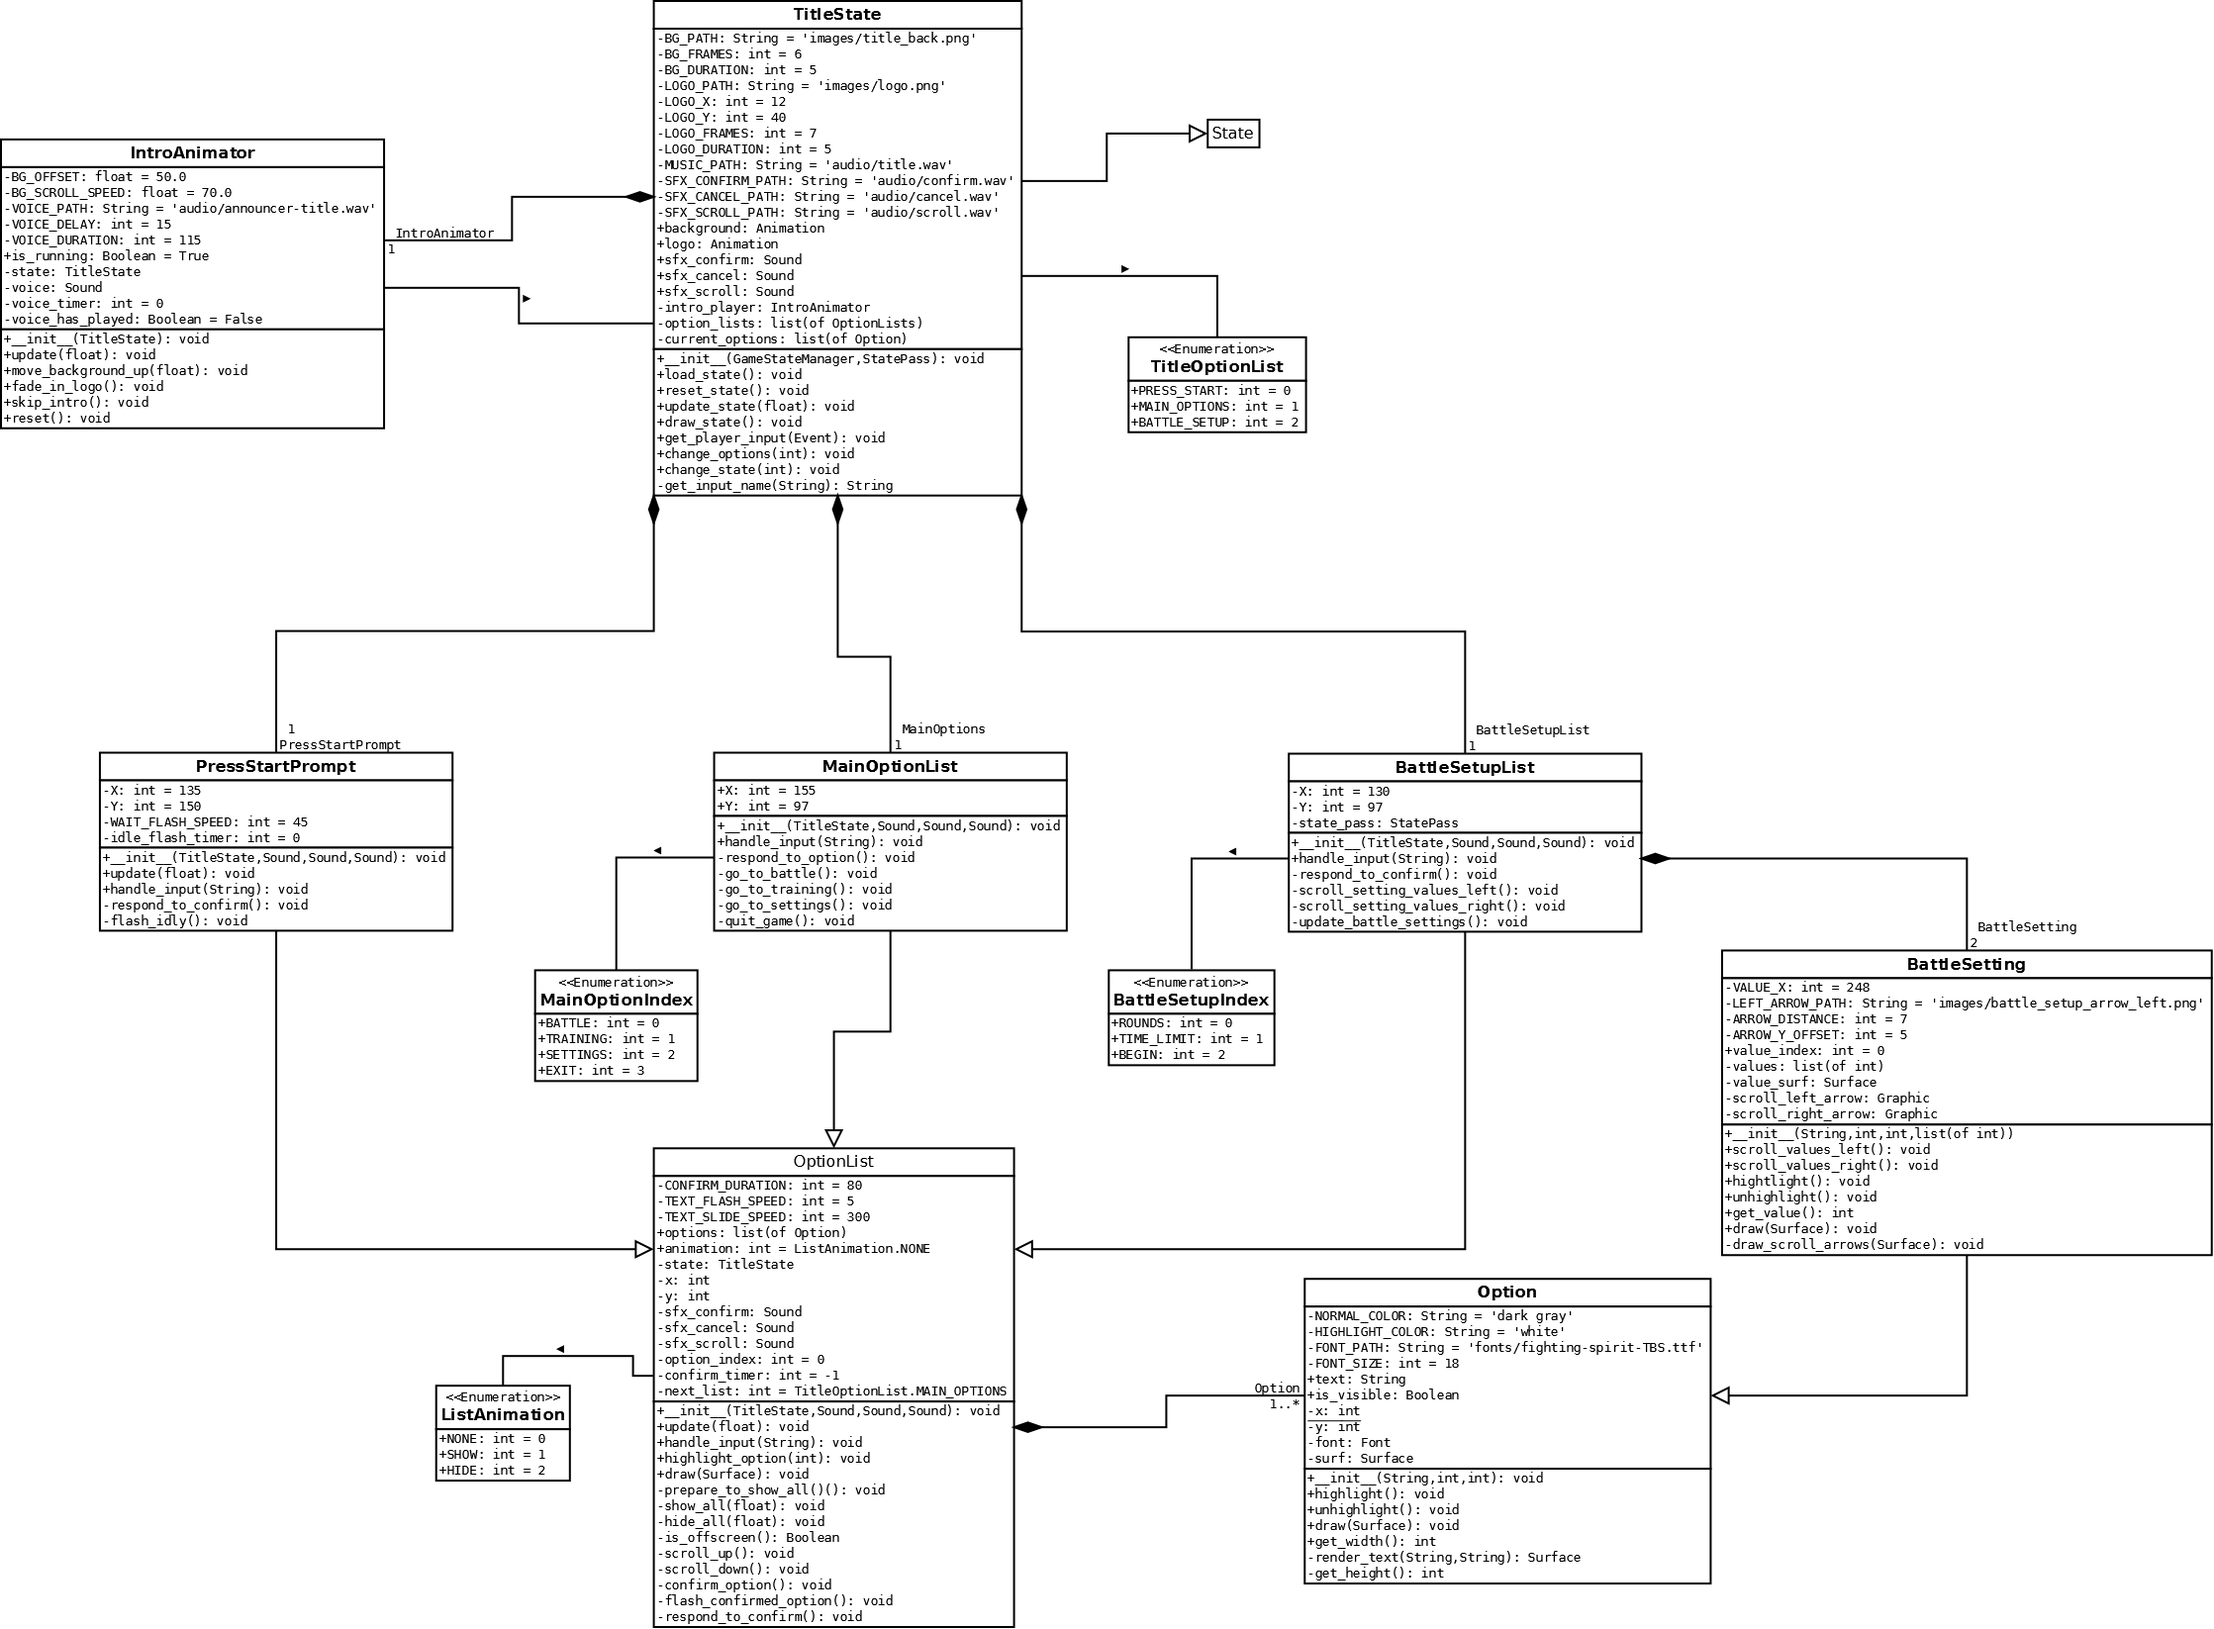
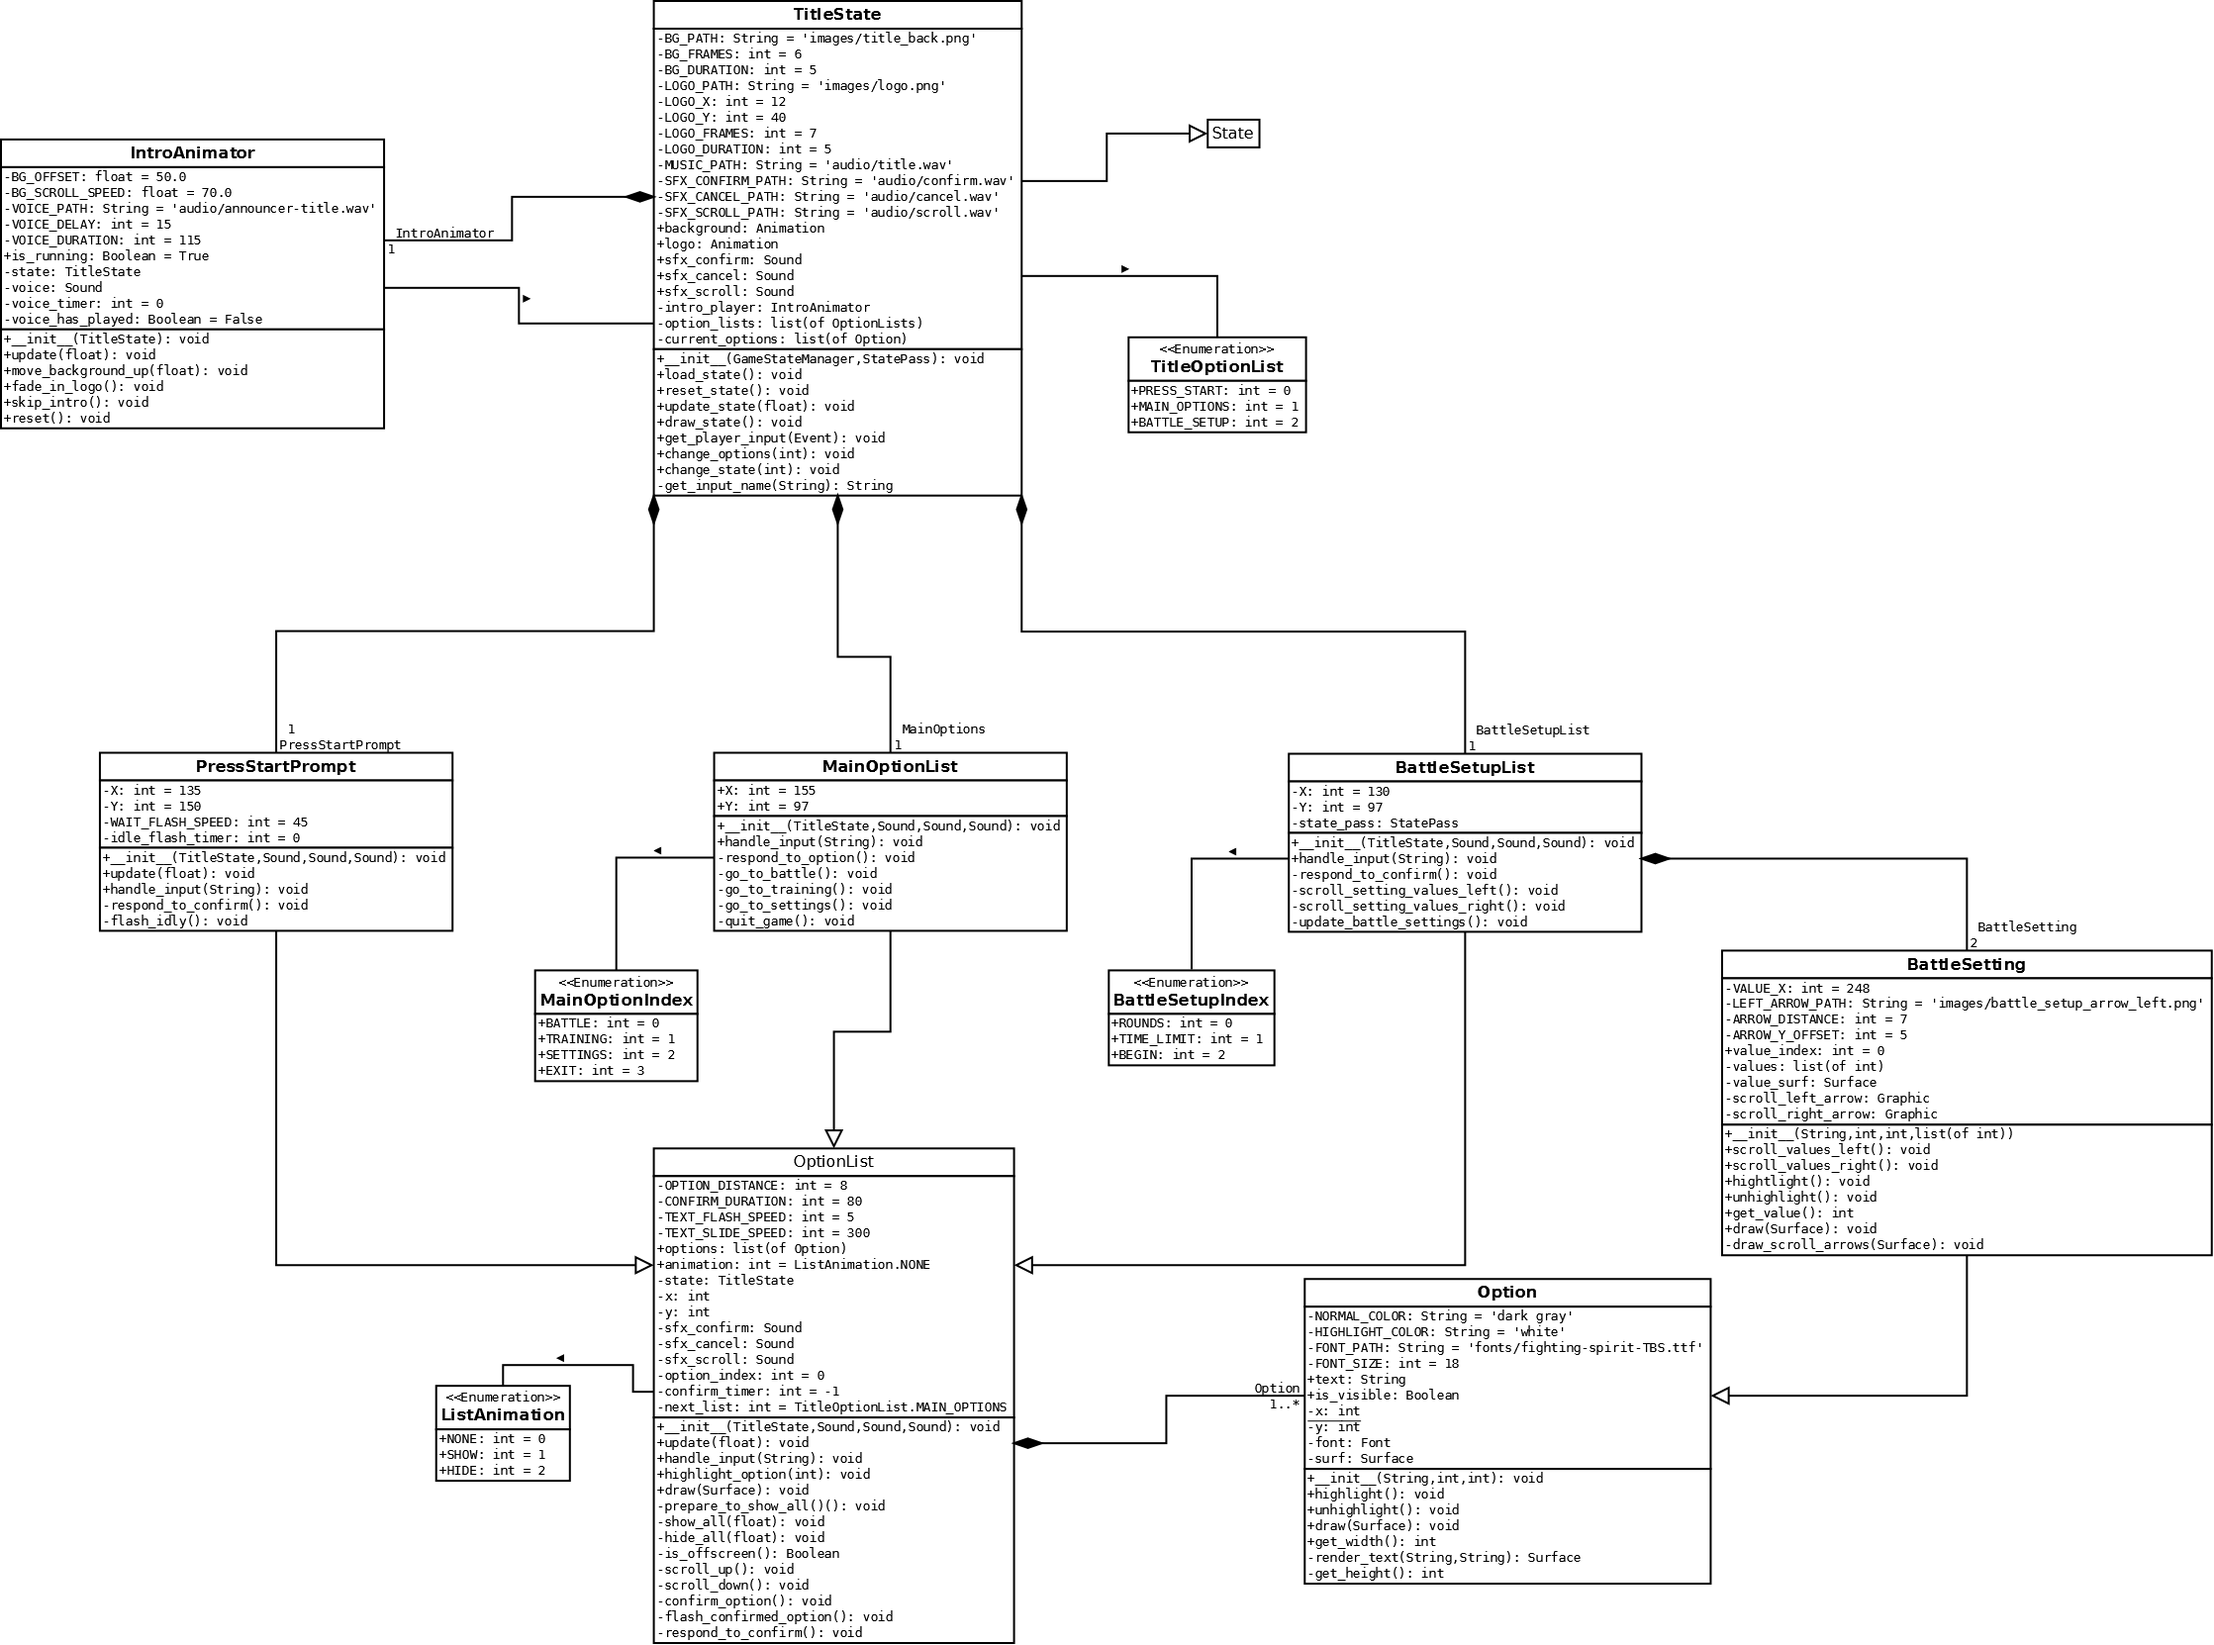
OptionList: Add OPTION_DISTANCE constant
I knew I was forgetting something...

diff --git a/lib/game_states/title_state_new.py b/lib/game_states/title_state_new.py
@@ -21,6 +21,8 @@ class OptionList(object):
     ways of responding to a confirmed Option.
 
     Class Constants:
+        OPTION_DISTANCE: The vertical distance, in pixels, between
+            two Options.
         CONFIRM_DURATION: An integer for the time, in update frames, to
             flash a confirmed Option's text before performing the
             appropriate operation.
@@ -56,6 +58,7 @@ class OptionList(object):
             will be shown after this one. Refer to the TitleOptionList
             enum for possible values.
     """
+    OPTION_DISTANCE = 8
     CONFIRM_DURATION = 80
     TEXT_FLASH_SPEED = 5
     TEXT_SLIDE_SPEED = 300
